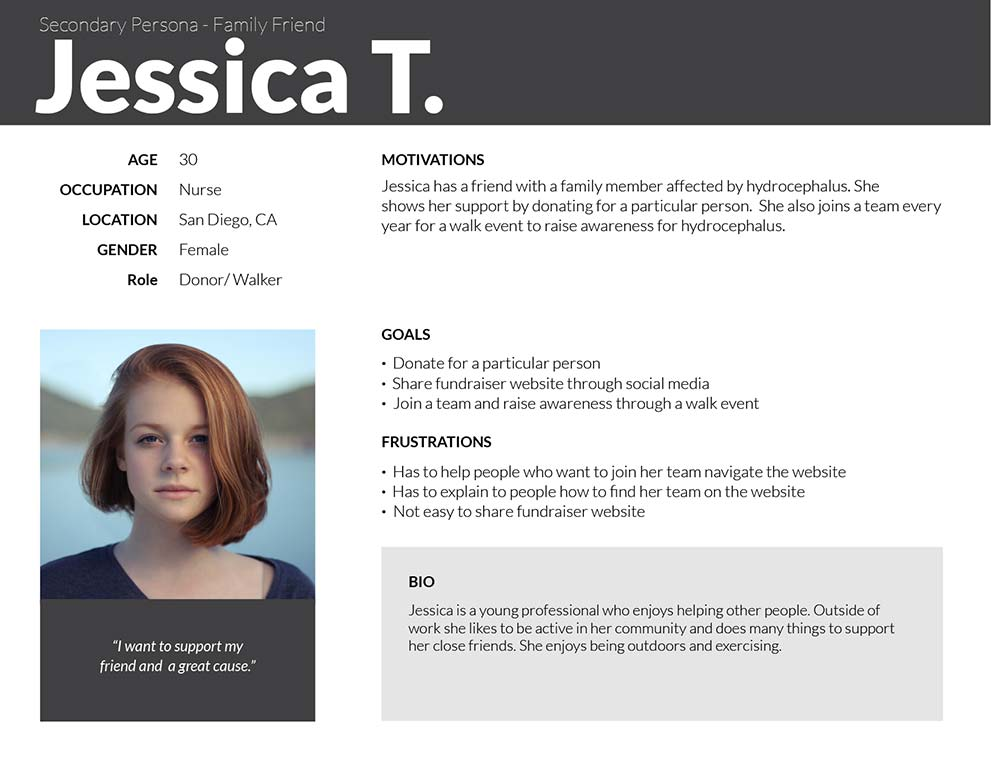
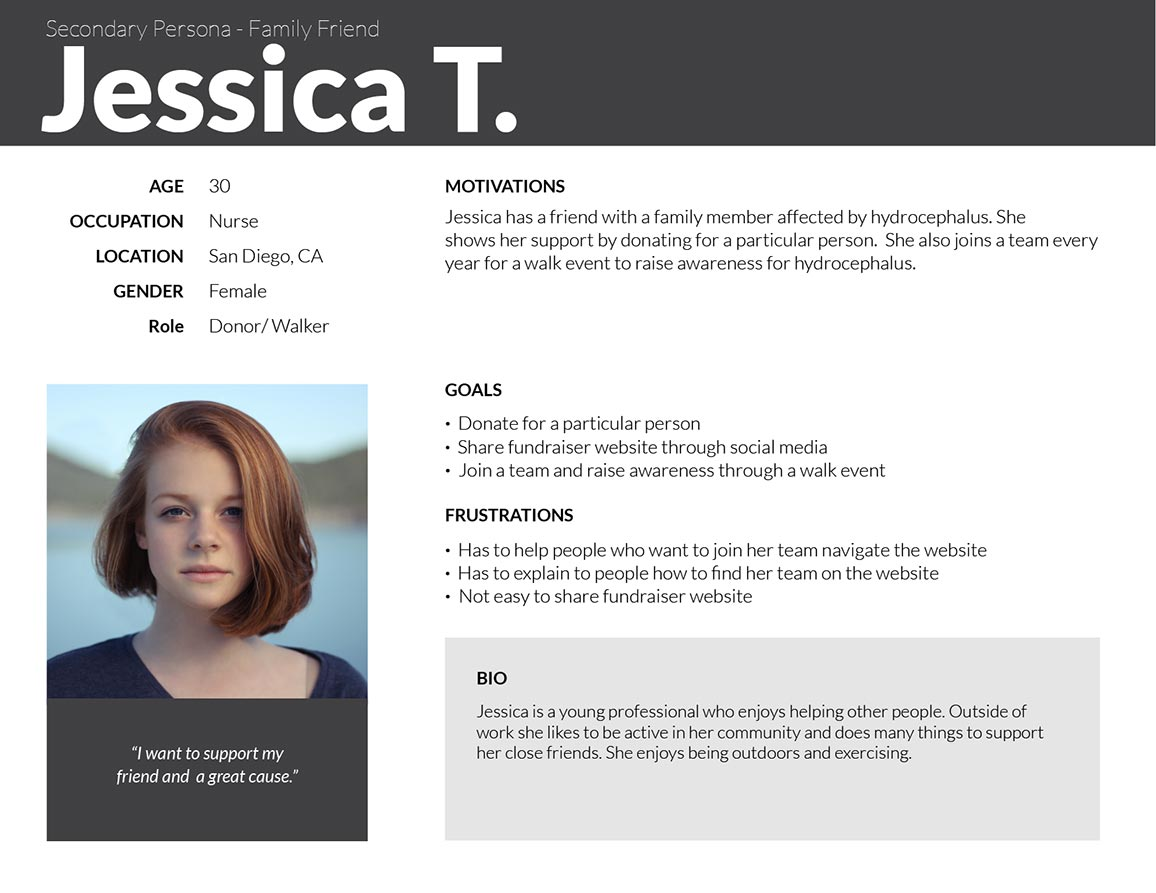
switched to smaller jpg files for user personas. Also attempted to compress files again.

diff --git a/ha-walk.html b/ha-walk.html
@@ -194,7 +194,7 @@
                           <div id="user-personas-acquaintance" class="w3-modal" onclick="this.style.display='none'">
                             <span class="w3-button w3-xlarge w3-display-topright" style="color: #FFFFFF; background-color: rgba(0, 0, 0, 0.4);">&times;</span>
                             <div class="w3-modal-content w3-animate-zoom">
-                              <img src="images/ha-walk/user-personas-acquaintance.png" alt="acquaintance is a primary user persona" style="width:100%; display:block; margin: 0 auto;">
+                              <img src="images/ha-walk/user-personas-acquaintance.jpg" alt="acquaintance is a primary user persona" style="width:80%; display:block; margin: 0 auto;">
                             </div>
                           </div>
 
@@ -204,7 +204,7 @@
                           <div id="user-personas-mom" class="w3-modal" onclick="this.style.display='none'">
                             <span class="w3-button w3-xlarge w3-display-topright" style="color: #FFFFFF; background-color: rgba(0, 0, 0, 0.4);">&times;</span>
                             <div class="w3-modal-content w3-animate-zoom">
-                              <img src="images/ha-walk/user-personas-mom.png" alt="mom is a secondary user persona" style="width:100%; display:block; margin: 0 auto;">
+                              <img src="images/ha-walk/user-personas-mom.jpg" alt="mom is a secondary user persona" style="width:80%; display:block; margin: 0 auto;">
                             </div>
                           </div>
 
@@ -214,7 +214,7 @@
                           <div id="user-personas-family-friend" class="w3-modal" onclick="this.style.display='none'">
                             <span class="w3-button w3-xlarge w3-display-topright" style="color: #FFFFFF; background-color: rgba(0, 0, 0, 0.4);">&times;</span>
                             <div class="w3-modal-content w3-animate-zoom">
-                              <img src="images/ha-walk/user-personas-family-friend.png" alt="family friend is a secondary user persona" style="width:100%; display:block; margin: 0 auto;">
+                              <img src="images/ha-walk/user-personas-family-friend.jpg" alt="family friend is a secondary user persona" style="width:80%; display:block; margin: 0 auto;">
                             </div>
                           </div>
 
